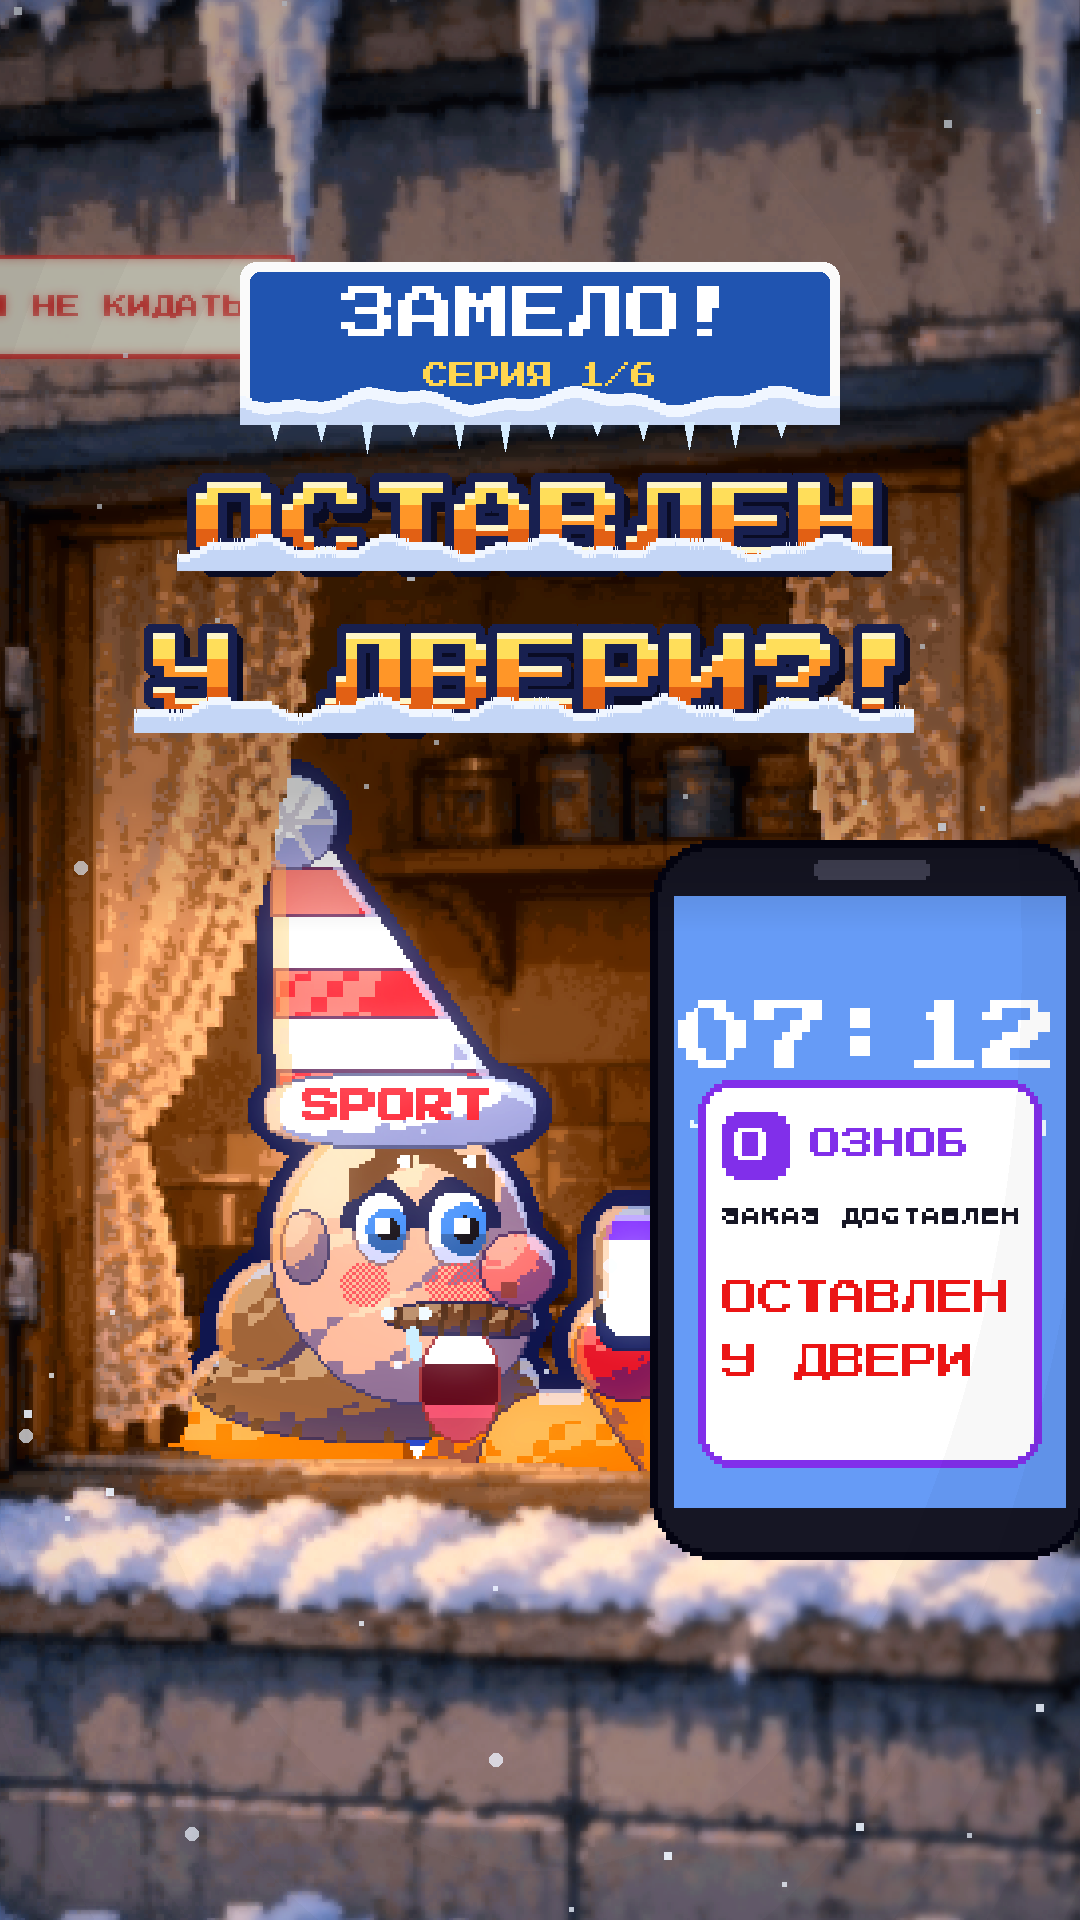
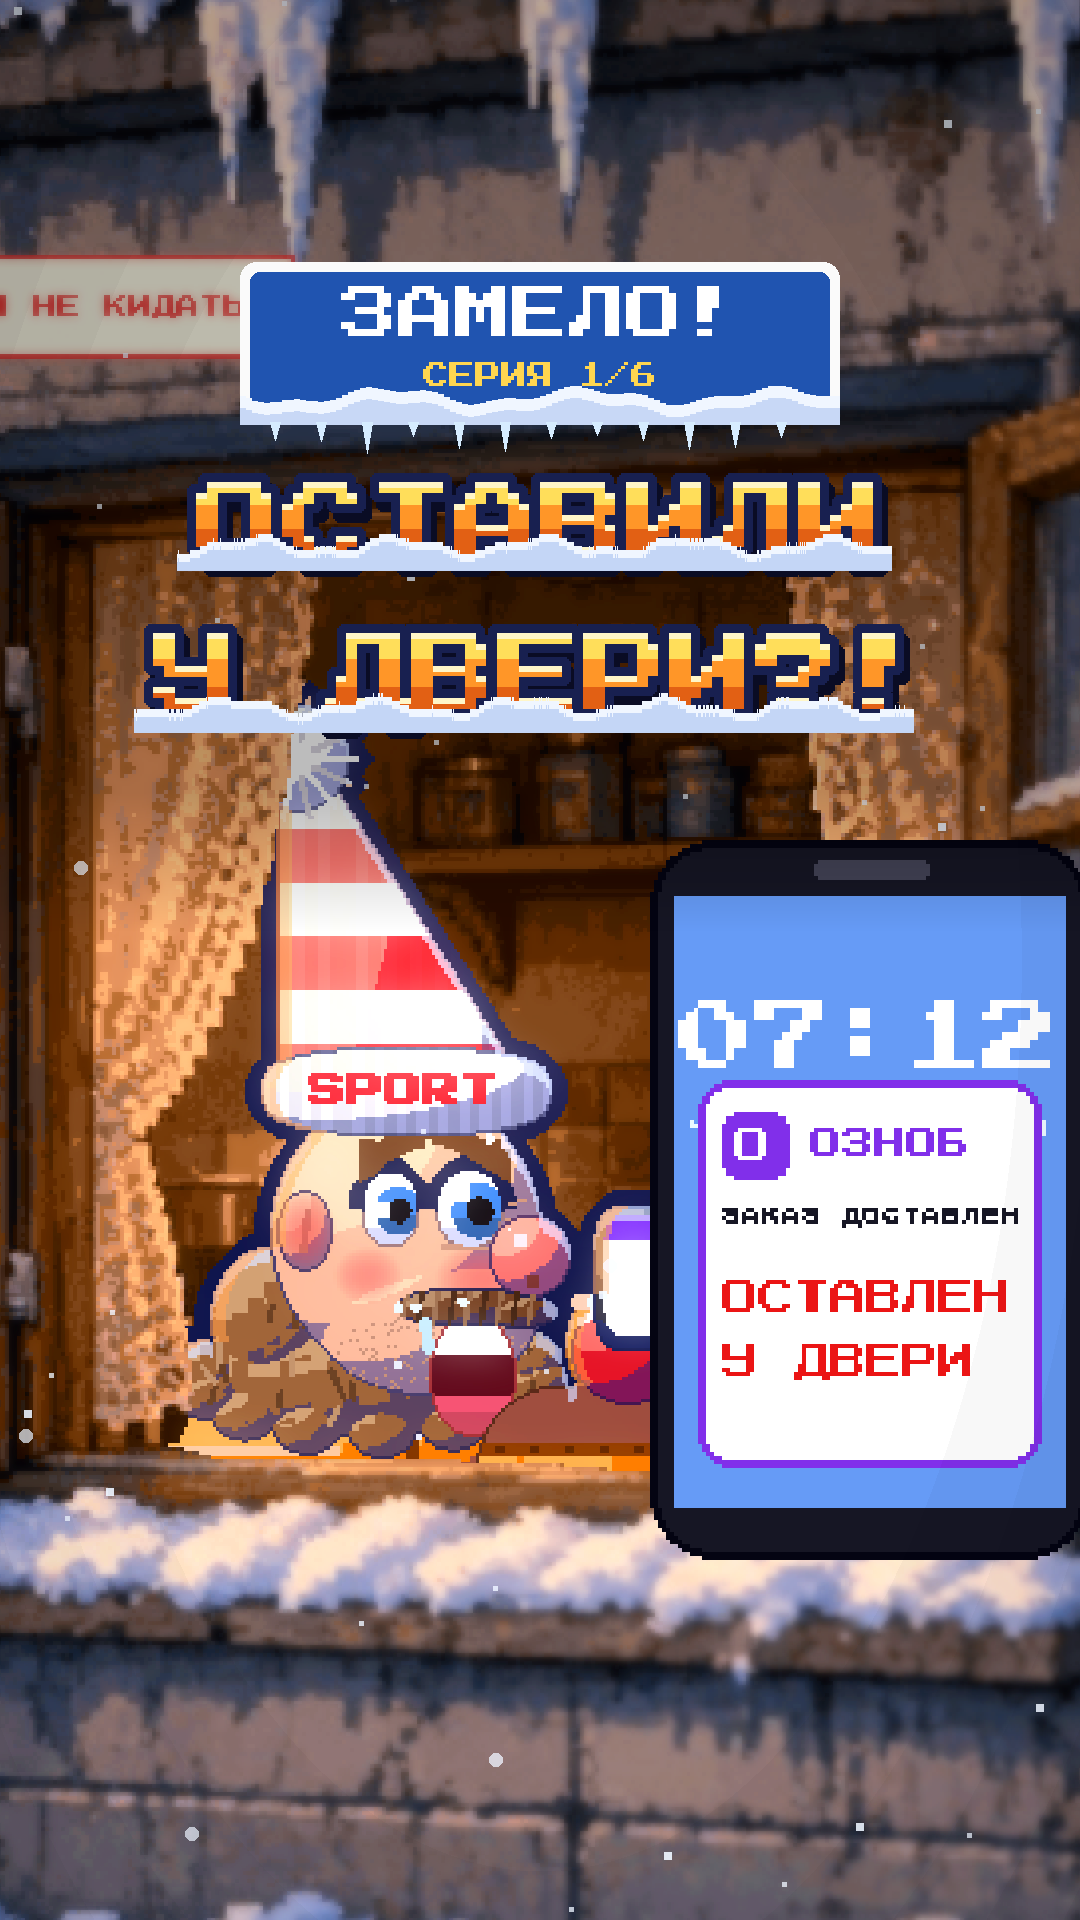
Замело E01 v2: документы, обложка «ОСТАВИЛИ У ДВЕРИ?!»
Claude-Session: https://claude.ai/code/session_01Ciuyyt17YYcUtXd3tXWpiY

Changed region(s): [[0.1528, 0.3438, 0.6111, 0.7812], [0.5806, 0.25, 0.7333, 0.3125], [0.7639, 0.25, 0.7944, 0.2812]]

diff --git a/series/zamelo/episodes/ep01/cover.py b/series/zamelo/episodes/ep01/cover.py
@@ -18,5 +18,5 @@ def f(big, _):
     ph = K.push_screen(1.0, w=440, h=720, t_push=0.0)
     O.overlay(big, ph, 650, 840, 1.0)
 big = K.shot('facade', K.light_window, cx, cy, Z, acts=[z], focus=0.42, dof_k=18, fx_=f, t=t, snow_n=50)
-K.cover_make(big, ['ОСТАВЛЕН', 'У ДВЕРИ?!'], n=1, out=str(pathlib.Path(__file__).parent / 'cover.png'), title_size=86)
+K.cover_make(big, ['ОСТАВИЛИ', 'У ДВЕРИ?!'], n=1, out=str(pathlib.Path(__file__).parent / 'cover.png'), title_size=86)
 print('cover.png')

diff --git a/series/zamelo/episodes/ep01/ep01.py b/series/zamelo/episodes/ep01/ep01.py
@@ -233,7 +233,7 @@ def r_dig(t, u):
 
 def hole_dig(k):
     def f(big, v):
-        x, y = 706.0, 604.0
+        x, y = 706.0, 556.0
         ox, oy = v.opt(x, y); Rx, Ry = (46 + 30 * k) * 3 * v.Z, (12 + 6 * k) * 3 * v.Z
         yy, xx = np.mgrid[0:big.shape[0], 0:big.shape[1]]
         m = ((xx - ox) / Rx) ** 2 + ((yy - oy) / Ry) ** 2 <= 1

diff --git a/docs/decisions.md b/docs/decisions.md
@@ -131,3 +131,4 @@
 - 12.11.2026 — владелец: пилот STILL 1986 «отличный», сценарий сезона одобрен → E02–E06. В пилоте плохо слышно Фрэн и Рея (музыка громкая) — в следующих сериях голоса громче, музыка тише (bed ≤ 0,16, VGAIN комментаторов ≥ 2,0, без эха на голосе). Масштаб: следить прежде всего за объектами, которые играют роль в сюжете (машина и т.п.); мелкий передний план задника (гидрант, счётчик) можно оставлять. Средний темп 135 слов/мин с паузами — нормально.
 - 14.11.2026 — владелец заказал новый РУ-сериал про Дальний Восток: снег по 9-й этаж, жизнь на сугробе (доставка в окно, дети съезжают в школу с горки из окна), стиль ситкомов «Осторожно, модерн», «Деревня дураков», «Универ», «Реальные пацаны»; сценарий качественный и понятный на слух, каждая фраза отвечает на прошлую («но/поэтому»), картинка = слово, 30–40 с, хук, поворот на середине, общая нить. Сделан сценарий «Замело» S01 (`series/zamelo/season1_script.txt`), манера «понятная история», без «отправь тому…» в ролике. Ждёт «ок».
 - 14.11.2026 — владелец одобрил сценарий «Замело» («Да, делай пилот»): в роликах без «отправь тому…»; в конце — просто плашка «ПОДПИШИСЬ!» (без обещания следующей серии). Пилот E01 сделан: свои герои (`zampix/zamcast/zamkit/zamdecor`), голоса из Voice Library, 2.5D.
+- 14.11.2026 — владелец по пилоту «Замело» v1: «не то». Хук сильнее, если ролик сразу начинается с фразы «Дальний Восток» и крупного плана; первая картинка не цепляла; герои должны быть детальнее (оставаясь пиксельными); размеры предметов — как в жизни; копание и «замело по 9-й этаж» непонятны («плоский квадрат, а не дом»). Сделано в v2: первая реплика чайки «Дальний Восток. Снег — по девятый этаж. А Жоре посылку оставили у двери» на крупном плане; разрез дома (xAI, «кукольный домик»: 9 этажей + снежная толща) с пролётом до двери подъезда и пунктиром «27 М»; вставка телефона в варежке; копание вдоль стены в разрезе с анимацией лопаты и счётчиком этажей; детальнее риг (стёганый пуховик, вязаная шапка, валенки с галошами, лицо с ноздрями/складками, чайка с чешуёй перьев); чайка 0,55 роста относительно героя в двухшотах, лопата 1,3 м. Правило на будущее: сложное пространство (под снегом, под землёй, в разрезе) показывать схемой-разрезом, а не догадкой.

diff --git a/docs/brief.md b/docs/brief.md
@@ -61,6 +61,8 @@
 - **Звук (владелец 02.11):** сначала общая CC0-библиотека `library/cc0/` (реальные записи + яркие подложки: доля 400–4000 Гц ≥ 0,4, басовые = гул на телефоне), ElevenLabs SFX — только если там нет; музыку кодом не синтезировать; комнатный гул под квартирой не класть; звонок — советская «птичка»; подложка — весёлая (мандолина, ярмарка, Fetch Contest, Shoe shop), и после поворота тоже весёлая (ситком, без грустной музыки); речь на 16–18 дБ громче музыки: gain 0,8–0,9 + вырез частот голоса (`VOICE_DIP` в BEDS).
 - **Плашка курса** — справа сверху, в строке плашки серии (02.11).
 
+- **Понятность пространства (владелец 14.11, «Замело»):** первая фраза — где мы («Дальний Восток…») на крупном плане; сложное пространство (под снегом, в разрезе) — схемой-разрезом; размеры предметов как в жизни; герои детальные внутри силуэта.
+
 ## Ловушки
 - Готовые серии не пересобирать без просьбы.
 - В 16:9 PX героев ≤ 2.

diff --git a/series/zamelo/episodes/ep01/script.md b/series/zamelo/episodes/ep01/script.md
@@ -1,4 +1,7 @@
-# S01E01 «ОСТАВЛЕН У ДВЕРИ?!» — 36,5 с
+# S01E01 «ОСТАВИЛИ У ДВЕРИ?!» — v2, 37,7 с (переделка по замечаниям владельца 14.11)
+
+v2: хук — чайка крупно «Дальний Восток. Снег — по девятый этаж. А Жоре посылку оставили у двери»; разрез дома под снегом с пролётом до двери подъезда (27 м); вставка телефона в варежке; копание в разрезе вдоль стены. Поворот 22,68 / 37,7 = 60 %. Ниже — таблица v1 (биты после хука те же, тайминг сдвинут на ~0,8 с).
+
 
 **Главный вопрос:** получит ли Жора посылку? Открыт 0 с, закрыт на 32 с (88 %).
 **Поворот:** 21,85 с / 36,5 с = **60 %** — тип «не та дверь» (ответ был в двух метрах): посылка у двери КВАРТИРЫ, курьер ходит через крышу. Улика: баба Нина прямо говорит «курьер же по крышам ходит», табличка во дворе «ОЗНОБ ПВЗ → ПО КРЫШАМ».

diff --git a/series/zamelo/episodes/ep01/meta.md b/series/zamelo/episodes/ep01/meta.md
@@ -1,6 +1,7 @@
-# S01E01 «ОСТАВЛЕН У ДВЕРИ?!»
+# S01E01 «ОСТАВИЛИ У ДВЕРИ?!» (v2)
 
-- Длина 36,5 с, 9:16, 1080×1920, 30 fps; поворот 21,85 с (60 %); обложка вшита в первые 0,1 с.
+- Длина 37,7 с, 9:16, 1080×1920, 30 fps; поворот 22,68 с (60 %); обложка вшита в первые 0,1 с.
+- v2: новая первая реплика чайки (+55 кредитов), задник-разрез xAI (+$0,12).
 - Голоса: Жора (Evgeniy Rybakov), чайка (Artemiy), Ира (Marina), Витёк (Egor), баба Нина (Babushka Valya) — Voice Library, без слотов.
 - Реплики ≈ 900 кредитов (9 реплик перегенерированы в быстром темпе: первый дубль давал 120 слов/мин), SFX ≈ 160, задники xAI $0,85 (7 картинок + 1 правка).
 - Звук: свои SFX (лопата, чайка, нырок в снег, плюх, ветер) + CC0 (пуш, скретч, гонг, бойнг, шаги по снегу, ба-дум-тсс); подложка CC0 «Мандолина» с вырезом частот голоса; −14 LUFS.
